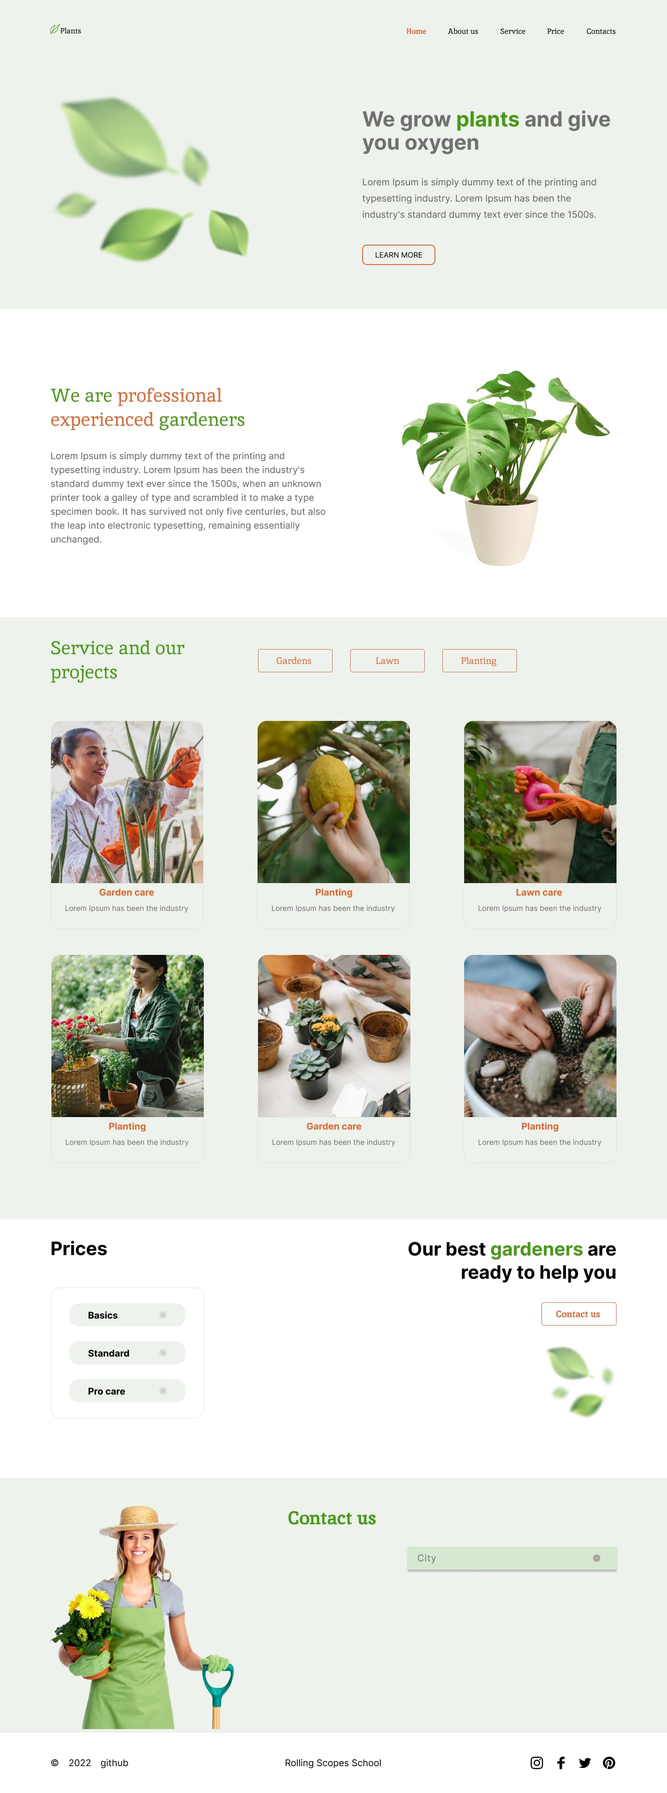
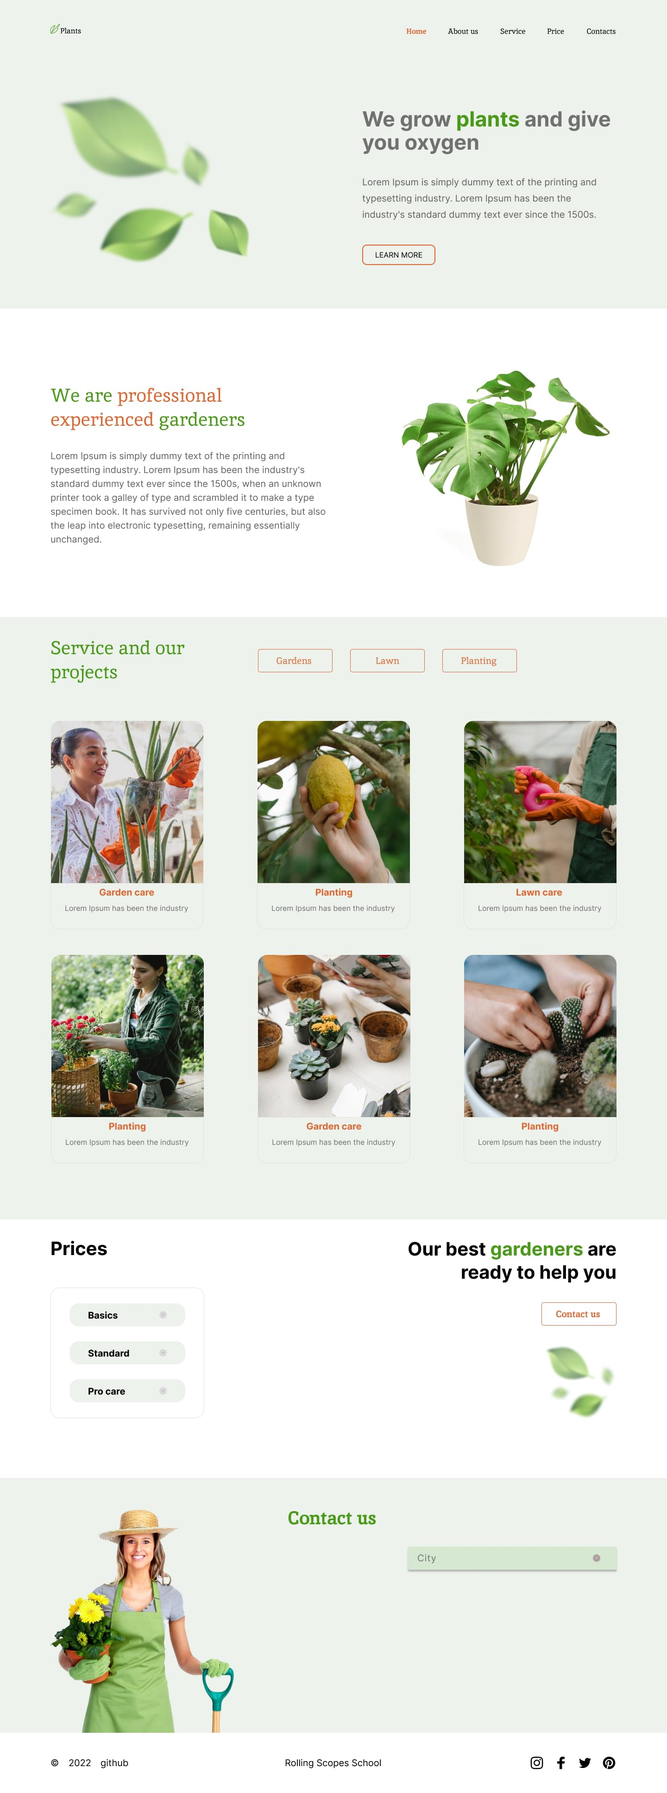
feat: add contact  accordion radio button

Changed region(s): [[0.0625, 0.8372, 0.3438, 0.9612]]

diff --git a/plants/plants/css/style.min.css b/plants/plants/css/style.min.css
@@ -1,1 +1,1 @@
-@charset "UTF-8";@import url(https://fonts.googleapis.com/css?family=Inter:300,regular,700&display=swap);@import url(https://fonts.googleapis.com/css?family=Inika:regular,700&display=swap);*{padding:0;margin:0;border:0}*,:after,:before{-webkit-box-sizing:border-box;box-sizing:border-box}body,html{height:100%;min-width:320px}body{color:#636060;line-height:1;font-family:Inter;font-size:1rem;-ms-text-size-adjust:100%;-moz-text-size-adjust:100%;-webkit-text-size-adjust:100%;-webkit-font-smoothing:antialiased;-moz-osx-font-smoothing:grayscale}button,input,textarea{font-family:Inter;font-size:inherit}button{cursor:pointer;color:inherit;background-color:inherit}a{color:inherit}a:link,a:visited{text-decoration:none}a:hover{text-decoration:none}ul li{list-style:none}img{vertical-align:top}h1,h2,h3,h4,h5,h6{font-weight:inherit;font-size:inherit}.lock body{overflow:hidden;-ms-touch-action:none;touch-action:none}.wrapper{min-height:100%;display:-webkit-box;display:-ms-flexbox;display:flex;-webkit-box-orient:vertical;-webkit-box-direction:normal;-ms-flex-direction:column;flex-direction:column;overflow:hidden;background-color:#edf2ec}.wrapper>main{-webkit-box-flex:1;-ms-flex:1 1 auto;flex:1 1 auto}.wrapper>*{min-width:0}[class*=__container]{max-width:76.375rem;-webkit-box-sizing:content-box;box-sizing:content-box;margin:0 auto;padding:0 .9375rem}/*! normalize.css v8.0.1 | MIT License | github.com/necolas/normalize.css */html{line-height:1.15;-webkit-text-size-adjust:100%}body{margin:0}main{display:block}h1{font-size:2em;margin:.67em 0}hr{-webkit-box-sizing:content-box;box-sizing:content-box;height:0;overflow:visible}pre{font-family:monospace,monospace;font-size:1em}a{background-color:transparent}abbr[title]{border-bottom:none;text-decoration:underline;-webkit-text-decoration:underline dotted;text-decoration:underline dotted}b,strong{font-weight:bolder}code,kbd,samp{font-family:monospace,monospace;font-size:1em}small{font-size:80%}sub,sup{font-size:75%;line-height:0;position:relative;vertical-align:baseline}sub{bottom:-.25em}sup{top:-.5em}img{border-style:none}button,input,optgroup,select,textarea{font-family:inherit;font-size:100%;line-height:1.15;margin:0}button,input{overflow:visible}button,select{text-transform:none}[type=button],[type=reset],[type=submit],button{-webkit-appearance:button}[type=button]::-moz-focus-inner,[type=reset]::-moz-focus-inner,[type=submit]::-moz-focus-inner,button::-moz-focus-inner{border-style:none;padding:0}[type=button]:-moz-focusring,[type=reset]:-moz-focusring,[type=submit]:-moz-focusring,button:-moz-focusring{outline:1px dotted ButtonText}fieldset{padding:.35em .75em .625em}legend{-webkit-box-sizing:border-box;box-sizing:border-box;color:inherit;display:table;max-width:100%;padding:0;white-space:normal}progress{vertical-align:baseline}textarea{overflow:auto}[type=checkbox],[type=radio]{-webkit-box-sizing:border-box;box-sizing:border-box;padding:0}[type=number]::-webkit-inner-spin-button,[type=number]::-webkit-outer-spin-button{height:auto}[type=search]{-webkit-appearance:textfield;outline-offset:-2px}[type=search]::-webkit-search-decoration{-webkit-appearance:none}::-webkit-file-upload-button{-webkit-appearance:button;font:inherit}details{display:block}summary{display:list-item}template{display:none}[hidden]{display:none}[class*=-ibg]{position:relative}[class*=-ibg] img{position:absolute;width:100%;height:100%;top:0;left:0;-o-object-fit:cover;object-fit:cover}[class*=-ibg_contain] img{-o-object-fit:contain;object-fit:contain}.button{-webkit-transition:all .3s ease;-o-transition:all .3s ease;transition:all .3s ease}.button:hover{color:#fff;background-color:#e06733}.header{font-family:Inika;font-style:normal;font-weight:400}.header__container{display:-webkit-box;display:-ms-flexbox;display:flex;-webkit-box-pack:justify;-ms-flex-pack:justify;justify-content:space-between;-webkit-box-align:end;-ms-flex-align:end;align-items:flex-end;margin-top:3.25em}.logo{display:-webkit-box;display:-ms-flexbox;display:flex;-webkit-box-align:end;-ms-flex-align:end;align-items:flex-end}.logo__img{width:1.3125em;height:1.3125em}.logo__name{margin:0;font-size:1em;line-height:.75em;color:#000;text-transform:capitalize}.nav{max-width:454px;width:100%}.nav__list{display:-webkit-box;display:-ms-flexbox;display:flex;-webkit-box-pack:justify;-ms-flex-pack:justify;justify-content:space-between;color:#010201}.nav__item{font-size:1em;line-height:.75em}.nav__link{-webkit-transition:all .3s ease;-o-transition:all .3s ease;transition:all .3s ease}.nav__link:hover{color:#e06733}.nav__link.active{font-weight:700;color:#e06733}.welcome{margin-top:8.125em;margin-bottom:5.8125em}.no-webp .welcome__container{background-image:url(../img/bg-leafs5.png)}.welcome__container{display:-webkit-box;display:-ms-flexbox;display:flex;-webkit-box-pack:end;-ms-flex-pack:end;justify-content:flex-end;background-repeat:no-repeat;background-position:4px -20px}.welcome__wrapper{max-width:34.375em;width:100%}.welcome__title{display:block;font-weight:700;font-size:45px;line-height:50px;color:#717171}.welcome__title span{color:#499a18}.welcome__text{max-width:525px;margin-top:42px;font-size:20px;line-height:35px}.welcome__button{margin-top:48px;padding:14px 27px;border:2px solid #e06733;border-radius:10px;text-transform:uppercase;line-height:12px}.about{background-color:#fff}.no-webp .about__container{background-image:url(../img/bg-houseplant.jpg)}.about__container{background-repeat:no-repeat;background-position:calc(100% - 15px) 95px}.about__title{padding-top:160px;font-family:Inika;font-style:normal;font-weight:400;font-size:40px;line-height:52px;color:#499a18;max-width:460px;width:100%}.about__title span{color:#e06733}.about__text{padding-bottom:155px;margin-top:40px;max-width:605px;width:100%;font-size:20px;line-height:30px}.service__container{margin-top:40px;margin-bottom:123px}.service__wrapper{display:-webkit-box;display:-ms-flexbox;display:flex;-webkit-box-align:center;-ms-flex-align:center;align-items:center}.service__title{margin-right:140px;font-family:Inika;font-style:normal;font-weight:400;font-size:40px;line-height:52px;max-width:310px;width:100%;color:#499a18}.service__button{max-width:161px;width:100%;padding:11px 40px;border:1px solid #e06733;border-radius:5px;font-family:Inika;font-style:normal;font-weight:400;font-size:20px;line-height:26px;color:#e06733}.service__button:not(:last-child){margin-right:38px}.service__list{margin-top:78px;display:-ms-grid;display:grid;grid-template-columns:repeat(auto-fit,330px);grid-gap:55px 116px;pointer-events:none}.service__list:hover .service__item:not(:hover){opacity:.3}.service__item{aspect-ratio:1/1;pointer-events:auto;-webkit-transition:opacity .3s;-o-transition:opacity .3s;transition:opacity .3s;border-radius:20px 20px 0 0;text-align:center}.service__item img{border-radius:20px 20px 0 0}.service__inner{border:1px solid #e3e1d5;border-radius:0 0 20px 20px}.service__name{margin-top:9px;font-weight:700;font-size:20px;line-height:20px;color:#e06733}.service__text{margin-top:16px;margin-bottom:36px;color:#717171}.prices{background-color:#fff}.prices__container{padding-top:40px;padding-bottom:128px;display:-webkit-box;display:-ms-flexbox;display:flex;-webkit-box-pack:justify;-ms-flex-pack:justify;justify-content:space-between}.prices__inner:nth-child(1){max-width:332px;width:100%}.no-webp .prices__inner:nth-child(2){background-image:url(../img/bg-leafs4.jpg)}.prices__inner:nth-child(2){display:-webkit-box;display:-ms-flexbox;display:flex;-webkit-box-orient:vertical;-webkit-box-direction:normal;-ms-flex-direction:column;flex-direction:column;-webkit-box-align:end;-ms-flex-align:end;align-items:flex-end;background-repeat:no-repeat;background-position:calc(100% + 10px) calc(100% + 15px)}.prices__title{margin-bottom:60px;font-weight:700;font-size:40px;line-height:48px;color:#000}.prices__box{max-width:332px;width:100%;padding:33px 41px;border:1px solid #e3e1d5;border-radius:20px}.prices__text{max-width:452px;width:100%;font-weight:700;font-size:40px;line-height:50px;text-align:right;color:#000}.prices__text span{color:#499a18}.prices__button{margin-top:38px;max-width:161px;width:100%;padding:11px 30px;border:1px solid #e06733;border-radius:5px;font-family:Inika;font-style:normal;font-weight:400;font-size:20px;line-height:26px;color:#e06733}.accordion__item{background:#edf2ec;border-radius:20px;font-weight:700;font-size:20px;line-height:20px;color:#000;-webkit-transition:background .3s ease;-o-transition:background .3s ease;transition:background .3s ease;overflow:hidden;outline:0}.accordion__item:not(:last-child){margin-bottom:32px}.accordion__item:hover{background:#d6e7d2}.accordion__item[open]{background:#d6e7d2}.accordion__summary{padding:15px 40px;display:-webkit-box;display:-ms-flexbox;display:flex;-webkit-box-pack:justify;-ms-flex-pack:justify;justify-content:space-between;-webkit-box-align:center;-ms-flex-align:center;align-items:center;cursor:pointer;-webkit-transform:rotate(0);-ms-transform:rotate(0);transform:rotate(0)}.accordion__summary span{height:16px}.accordion__summary span svg{fill:#d9d9d9;stroke:#717171;-webkit-transition:fill ease 1s,stroke ease 1s;-o-transition:fill ease 1s,stroke ease 1s;transition:fill ease 1s,stroke ease 1s}.accordion__summary::-webkit-details-marker,.accordion__summary::marker{display:none;content:""}.accordion details[open]>summary{border-radius:20px;background:#d6e7d2}.accordion details[open]>summary span{-webkit-transform:rotate(180deg);-ms-transform:rotate(180deg);transform:rotate(180deg);-webkit-transition:-webkit-transform ease 1s;transition:-webkit-transform ease 1s;-o-transition:transform ease 1s;transition:transform ease 1s;transition:transform ease 1s,-webkit-transform ease 1s}.accordion details[open]>summary span svg{fill:#aea1a1;stroke:#fff;-webkit-transition:fill ease 2s,stroke ease 2s;-o-transition:fill ease 2s,stroke ease 2s;transition:fill ease 2s,stroke ease 2s}.accordion details[open]>summary+.accordion__content{border-radius:20px;border-top:none}.accordion__content{padding:0 40px 12px}.accordion__text{padding-top:6px;font-weight:300;font-size:10px;line-height:10px;color:#717171;border-top:1px solid #aea1a1}.accordion__price{margin-top:6px;font-size:12px;line-height:20px;color:#000}.accordion__price span{font-weight:700;font-size:16px;line-height:20px;color:#e06733}.accordion__price span::before{content:"$";font-size:12px}.accordion__button{margin-top:15px;padding:3px 20px;background:#fff;border-radius:10px;font-size:14px;color:#717171}@-webkit-keyframes details-show{from{opacity:0;-webkit-transform:var(--details-translate,translateY(-1em));transform:var(--details-translate,translateY(-1em))}}@keyframes details-show{from{opacity:0;-webkit-transform:var(--details-translate,translateY(-1em));transform:var(--details-translate,translateY(-1em))}}details[open]>:not(summary){-webkit-animation:details-show .5s ease-in-out;animation:details-show .5s ease-in-out}.no-webp .contacts__container{background-image:url(../img/bg-contact.png)}.contacts__container{background-repeat:no-repeat;background-position:calc(0% + 10px) 100%}.contacts__title{margin-top:60px;font-family:Inika;font-style:normal;font-weight:700;font-size:40px;line-height:52px;color:#499a18;text-align:center}.contacts__wrapper{display:-webkit-box;display:-ms-flexbox;display:flex;-webkit-box-pack:end;-ms-flex-pack:end;justify-content:flex-end}.contacts__box{margin-top:37px;margin-bottom:350px;width:450px;padding:5px 20px;background:#d6e7d2;-webkit-box-shadow:0 4px 4px rgba(0,0,0,.25);box-shadow:0 4px 4px rgba(0,0,0,.25);border-radius:0;font-size:20px;line-height:40px;letter-spacing:.05em;color:#717171}.footer{font-size:20px;line-height:20px;color:#000;background-color:#fff}.footer__container{min-height:130px;display:-webkit-box;display:-ms-flexbox;display:flex;-webkit-box-pack:justify;-ms-flex-pack:justify;justify-content:space-between;-webkit-box-align:center;-ms-flex-align:center;align-items:center}.footer__inner{display:-webkit-box;display:-ms-flexbox;display:flex}.footer__info{margin-right:20px}.footer__year{margin-right:20px}.footer__github{-webkit-transition:all .3s ease;-o-transition:all .3s ease;transition:all .3s ease}.footer__github:hover{color:#e06733}.footer__rss{-webkit-transition:all .3s ease;-o-transition:all .3s ease;transition:all .3s ease}.footer__rss:hover{color:#e06733}.social{-webkit-box-align:center;-ms-flex-align:center;align-items:center}.social__item:not(:last-child){margin-right:28px}.social__link svg path{fill:#000;-webkit-transition:all .3s ease;-o-transition:all .3s ease;transition:all .3s ease}.social__link svg path:hover{fill:#e06733}.webp .welcome__container{background-image:url(../img/bg-leafs5.webp)}.webp .about__container{background-image:url(../img/bg-houseplant.webp)}.webp .prices__inner:nth-child(2){background-image:url(../img/bg-leafs4.webp)}.webp .contacts__container{background-image:url(../img/bg-contact.webp)}
+@charset "UTF-8";@import url(https://fonts.googleapis.com/css?family=Inter:300,regular,700&display=swap);@import url(https://fonts.googleapis.com/css?family=Inika:regular,700&display=swap);*{padding:0;margin:0;border:0}*,:after,:before{-webkit-box-sizing:border-box;box-sizing:border-box}body,html{height:100%;min-width:320px}body{color:#636060;line-height:1;font-family:Inter;font-size:1rem;-ms-text-size-adjust:100%;-moz-text-size-adjust:100%;-webkit-text-size-adjust:100%;-webkit-font-smoothing:antialiased;-moz-osx-font-smoothing:grayscale}button,input,textarea{font-family:Inter;font-size:inherit}button{cursor:pointer;color:inherit;background-color:inherit}a{color:inherit}a:link,a:visited{text-decoration:none}a:hover{text-decoration:none}ul li{list-style:none}img{vertical-align:top}h1,h2,h3,h4,h5,h6{font-weight:inherit;font-size:inherit}.lock body{overflow:hidden;-ms-touch-action:none;touch-action:none}.wrapper{min-height:100%;display:-webkit-box;display:-ms-flexbox;display:flex;-webkit-box-orient:vertical;-webkit-box-direction:normal;-ms-flex-direction:column;flex-direction:column;overflow:hidden;background-color:#edf2ec}.wrapper>main{-webkit-box-flex:1;-ms-flex:1 1 auto;flex:1 1 auto}.wrapper>*{min-width:0}[class*=__container]{max-width:76.375rem;-webkit-box-sizing:content-box;box-sizing:content-box;margin:0 auto;padding:0 .9375rem}/*! normalize.css v8.0.1 | MIT License | github.com/necolas/normalize.css */html{line-height:1.15;-webkit-text-size-adjust:100%}body{margin:0}main{display:block}h1{font-size:2em;margin:.67em 0}hr{-webkit-box-sizing:content-box;box-sizing:content-box;height:0;overflow:visible}pre{font-family:monospace,monospace;font-size:1em}a{background-color:transparent}abbr[title]{border-bottom:none;text-decoration:underline;-webkit-text-decoration:underline dotted;text-decoration:underline dotted}b,strong{font-weight:bolder}code,kbd,samp{font-family:monospace,monospace;font-size:1em}small{font-size:80%}sub,sup{font-size:75%;line-height:0;position:relative;vertical-align:baseline}sub{bottom:-.25em}sup{top:-.5em}img{border-style:none}button,input,optgroup,select,textarea{font-family:inherit;font-size:100%;line-height:1.15;margin:0}button,input{overflow:visible}button,select{text-transform:none}[type=button],[type=reset],[type=submit],button{-webkit-appearance:button}[type=button]::-moz-focus-inner,[type=reset]::-moz-focus-inner,[type=submit]::-moz-focus-inner,button::-moz-focus-inner{border-style:none;padding:0}[type=button]:-moz-focusring,[type=reset]:-moz-focusring,[type=submit]:-moz-focusring,button:-moz-focusring{outline:1px dotted ButtonText}fieldset{padding:.35em .75em .625em}legend{-webkit-box-sizing:border-box;box-sizing:border-box;color:inherit;display:table;max-width:100%;padding:0;white-space:normal}progress{vertical-align:baseline}textarea{overflow:auto}[type=checkbox],[type=radio]{-webkit-box-sizing:border-box;box-sizing:border-box;padding:0}[type=number]::-webkit-inner-spin-button,[type=number]::-webkit-outer-spin-button{height:auto}[type=search]{-webkit-appearance:textfield;outline-offset:-2px}[type=search]::-webkit-search-decoration{-webkit-appearance:none}::-webkit-file-upload-button{-webkit-appearance:button;font:inherit}details{display:block}summary{display:list-item}template{display:none}[hidden]{display:none}[class*=-ibg]{position:relative}[class*=-ibg] img{position:absolute;width:100%;height:100%;top:0;left:0;-o-object-fit:cover;object-fit:cover}[class*=-ibg_contain] img{-o-object-fit:contain;object-fit:contain}.button{-webkit-transition:all .3s ease;-o-transition:all .3s ease;transition:all .3s ease}.button:hover{color:#fff;background-color:#e06733}.header{font-family:Inika;font-style:normal;font-weight:400}.header__container{display:-webkit-box;display:-ms-flexbox;display:flex;-webkit-box-pack:justify;-ms-flex-pack:justify;justify-content:space-between;-webkit-box-align:end;-ms-flex-align:end;align-items:flex-end;margin-top:3.25em}.logo{display:-webkit-box;display:-ms-flexbox;display:flex;-webkit-box-align:end;-ms-flex-align:end;align-items:flex-end;padding:0 15px 0 0}.logo__img{width:1.3125em;height:1.3125em}.logo__name{margin:0;font-size:1em;line-height:.75em;color:#000;text-transform:capitalize}.nav{padding:0 0 0 15px}.nav__list{display:-webkit-box;display:-ms-flexbox;display:flex;-webkit-box-pack:justify;-ms-flex-pack:justify;justify-content:space-between;color:#010201}.nav__item{font-size:1em;line-height:.75em}.nav__item:not(:last-child){margin-right:48px}.nav__link{-webkit-transition:all .3s ease;-o-transition:all .3s ease;transition:all .3s ease}.nav__link:hover{color:#e06733}.nav__link.active{font-weight:700;color:#e06733}.welcome{margin-top:8.125em;margin-bottom:5.8125em}.no-webp .welcome__container{background-image:url(../img/bg-leafs5.png)}.welcome__container{display:-webkit-box;display:-ms-flexbox;display:flex;-webkit-box-pack:end;-ms-flex-pack:end;justify-content:flex-end;background-repeat:no-repeat;background-position:4px -20px}.welcome__wrapper{max-width:34.375em;width:100%}.welcome__title{display:block;font-weight:700;font-size:45px;line-height:50px;color:#717171}.welcome__title span{color:#499a18}.welcome__text{max-width:525px;margin-top:42px;font-size:20px;line-height:35px}.welcome__button{margin-top:48px;padding:14px 27px;border:2px solid #e06733;border-radius:10px;text-transform:uppercase;line-height:12px}.about{background-color:#fff}.no-webp .about__container{background-image:url(../img/bg-houseplant.jpg)}.about__container{background-repeat:no-repeat;background-position:calc(100% - 15px) 95px}.about__title{padding-top:160px;font-family:Inika;font-style:normal;font-weight:400;font-size:40px;line-height:52px;color:#499a18;max-width:460px;width:100%}.about__title span{color:#e06733}.about__text{padding-bottom:155px;margin-top:40px;max-width:605px;width:100%;font-size:20px;line-height:30px}.service__container{margin-top:40px;margin-bottom:123px}.service__wrapper{display:-webkit-box;display:-ms-flexbox;display:flex;-webkit-box-align:center;-ms-flex-align:center;align-items:center}.service__title{margin-right:138px;font-family:Inika;font-style:normal;font-weight:400;font-size:40px;line-height:52px;max-width:310px;width:100%;color:#499a18}.service__button{max-width:161px;width:100%;padding:11px 40px;border:1px solid #e06733;border-radius:5px;font-family:Inika;font-style:normal;font-weight:400;font-size:20px;line-height:26px;color:#e06733}.service__button:not(:last-child){margin-right:38px}.service__list{margin-top:78px;display:-ms-grid;display:grid;grid-template-columns:repeat(auto-fit,330px);grid-gap:55px 116px;pointer-events:none}.service__list:hover .service__item:not(:hover){opacity:.3}.service__item{aspect-ratio:1/1;pointer-events:auto;-webkit-transition:opacity .3s;-o-transition:opacity .3s;transition:opacity .3s;border-radius:20px 20px 0 0;text-align:center}.service__item img{border-radius:20px 20px 0 0}.service__inner{border:1px solid #e3e1d5;border-radius:0 0 20px 20px}.service__name{margin-top:9px;font-weight:700;font-size:20px;line-height:20px;color:#e06733}.service__text{margin-top:16px;margin-bottom:36px;color:#717171}.prices{background-color:#fff}.prices__container{padding-top:40px;padding-bottom:128px;display:-webkit-box;display:-ms-flexbox;display:flex;-webkit-box-pack:justify;-ms-flex-pack:justify;justify-content:space-between}.prices__inner:nth-child(1){max-width:332px;width:100%}.no-webp .prices__inner:nth-child(2){background-image:url(../img/bg-leafs4.jpg)}.prices__inner:nth-child(2){display:-webkit-box;display:-ms-flexbox;display:flex;-webkit-box-orient:vertical;-webkit-box-direction:normal;-ms-flex-direction:column;flex-direction:column;-webkit-box-align:end;-ms-flex-align:end;align-items:flex-end;background-repeat:no-repeat;background-position:calc(100% + 10px) 220px}.prices__title{margin-bottom:60px;font-weight:700;font-size:40px;line-height:48px;color:#000}.prices__box{max-width:332px;width:100%;padding:33px 41px;border:1px solid #e3e1d5;border-radius:20px}.prices__text{max-width:452px;width:100%;font-weight:700;font-size:40px;line-height:50px;text-align:right;color:#000}.prices__text span{color:#499a18}.prices__button{margin-top:38px;max-width:161px;width:100%;padding:11px 30px;border:1px solid #e06733;border-radius:5px;font-family:Inika;font-style:normal;font-weight:400;font-size:20px;line-height:26px;color:#e06733}.accordion__item{background:#edf2ec;border-radius:20px;font-weight:700;font-size:20px;line-height:20px;color:#000;-webkit-transition:background .3s ease;-o-transition:background .3s ease;transition:background .3s ease;overflow:hidden;outline:0}.accordion__item:not(:last-child){margin-bottom:32px}.accordion__item:hover{background:#d6e7d2}.accordion__item[open]{background:#d6e7d2}.accordion__summary{padding:15px 40px;display:-webkit-box;display:-ms-flexbox;display:flex;-webkit-box-pack:justify;-ms-flex-pack:justify;justify-content:space-between;-webkit-box-align:center;-ms-flex-align:center;align-items:center;cursor:pointer;-webkit-transform:rotate(0);-ms-transform:rotate(0);transform:rotate(0)}.accordion__summary span{height:16px}.accordion__summary span svg{fill:#d9d9d9;stroke:#717171;-webkit-transition:fill ease 1s,stroke ease 1s;-o-transition:fill ease 1s,stroke ease 1s;transition:fill ease 1s,stroke ease 1s}.accordion__summary::-webkit-details-marker,.accordion__summary::marker{display:none;content:""}.accordion details[open]>summary{border-radius:20px;background:#d6e7d2}.accordion details[open]>summary span{-webkit-transform:rotate(180deg);-ms-transform:rotate(180deg);transform:rotate(180deg);-webkit-transition:-webkit-transform ease 1s;transition:-webkit-transform ease 1s;-o-transition:transform ease 1s;transition:transform ease 1s;transition:transform ease 1s,-webkit-transform ease 1s}.accordion details[open]>summary span svg{fill:#aea1a1;stroke:#fff;-webkit-transition:fill ease 2s,stroke ease 2s;-o-transition:fill ease 2s,stroke ease 2s;transition:fill ease 2s,stroke ease 2s}.accordion details[open]>summary+.accordion__content{border-radius:20px;border-top:none}.accordion__content{padding:0 40px 12px}.accordion__text{padding-top:6px;font-weight:300;font-size:10px;line-height:10px;color:#717171;border-top:1px solid #aea1a1}.accordion__price{margin-top:6px;font-size:12px;line-height:20px;color:#000}.accordion__price span{font-weight:700;font-size:16px;line-height:20px;color:#e06733}.accordion__price span::before{content:"$";font-size:12px}.accordion__button{margin-top:15px;padding:3px 20px;background:#fff;border-radius:10px;font-size:14px;color:#717171}@-webkit-keyframes details-show{from{opacity:0;-webkit-transform:var(--details-translate,translateY(-1em));transform:var(--details-translate,translateY(-1em))}}@keyframes details-show{from{opacity:0;-webkit-transform:var(--details-translate,translateY(-1em));transform:var(--details-translate,translateY(-1em))}}details[open]>:not(summary){-webkit-animation:details-show .5s ease-in-out;animation:details-show .5s ease-in-out}.no-webp .contacts__container{background-image:url(../img/bg-contact.png)}.contacts__container{background-repeat:no-repeat;background-position:calc(0% + 10px) 100%}.contacts__title{margin-top:60px;font-family:Inika;font-style:normal;font-weight:700;font-size:40px;line-height:52px;color:#499a18;text-align:center}.contacts__wrapper{display:-webkit-box;display:-ms-flexbox;display:flex;-webkit-box-pack:end;-ms-flex-pack:end;justify-content:flex-end;padding-bottom:350px}.contacts__box{margin-top:37px;max-width:450px;width:100%;background:#d6e7d2;-webkit-box-shadow:0 4px 4px rgba(0,0,0,.25);box-shadow:0 4px 4px rgba(0,0,0,.25);border-radius:0;font-size:20px;line-height:20px;letter-spacing:.05em;color:#717171}.select-box{display:-webkit-box;display:-ms-flexbox;display:flex;-webkit-box-orient:vertical;-webkit-box-direction:normal;-ms-flex-direction:column;flex-direction:column;position:relative}.select-box .options-container{position:absolute;top:100%;max-height:0;width:100%;opacity:0;-webkit-transition:all .4s;-o-transition:all .4s;transition:all .4s;overflow:hidden;background:#d6e7d2;-webkit-box-shadow:0 4px 4px rgba(0,0,0,.25);box-shadow:0 4px 4px rgba(0,0,0,.25);-webkit-box-ordinal-group:2;-ms-flex-order:1;order:1}.selected{position:relative;-webkit-box-ordinal-group:1;-ms-flex-order:0;order:0;-webkit-transition:background .3s ease;-o-transition:background .3s ease;transition:background .3s ease}.selected:hover{background:#c1e698}.selected::after{content:"";background:url(../img/icons/accordion_btn.svg);background-size:contain;background-repeat:no-repeat;position:absolute;height:16px;width:16px;right:35px;top:17px;-webkit-transition:all .5s;-o-transition:all .5s;transition:all .5s}.select-box .options-container.active{max-height:240px;opacity:1}.select-box .options-container.active+.selected{background:#c1e698}.select-box .options-container.active+.selected::after{-webkit-transform:rotate(180deg);-ms-transform:rotate(180deg);transform:rotate(180deg)}.select-box .options-container::-webkit-scrollbar{width:8px}.select-box .option,.selected{padding:15px 35px;cursor:pointer;display:-webkit-box;display:-ms-flexbox;display:flex;-webkit-box-pack:justify;-ms-flex-pack:justify;justify-content:space-between;-webkit-box-align:center;-ms-flex-align:center;align-items:center;position:relative}.select-box label{width:100%;padding-bottom:5px;color:#499a18;cursor:pointer;border-bottom:1px solid #d9d9d9;-webkit-transition:all .3s ease;-o-transition:all .3s ease;transition:all .3s ease}.select-box label:hover{color:#717171;border-bottom:1px solid #717171}.select-box .option .radio{display:none}.footer{font-size:20px;line-height:20px;color:#000;background-color:#fff}.footer__container{min-height:130px;display:-webkit-box;display:-ms-flexbox;display:flex;-webkit-box-pack:justify;-ms-flex-pack:justify;justify-content:space-between;-webkit-box-align:center;-ms-flex-align:center;align-items:center}.footer__inner{display:-webkit-box;display:-ms-flexbox;display:flex}.footer__info{margin-right:20px}.footer__year{margin-right:20px}.footer__github{-webkit-transition:all .3s ease;-o-transition:all .3s ease;transition:all .3s ease}.footer__github:hover{color:#e06733}.footer__rss{-webkit-transition:all .3s ease;-o-transition:all .3s ease;transition:all .3s ease}.footer__rss:hover{color:#e06733}.social{-webkit-box-align:center;-ms-flex-align:center;align-items:center}.social__item:not(:last-child){margin-right:28px}.social__link svg path{fill:#000;-webkit-transition:all .3s ease;-o-transition:all .3s ease;transition:all .3s ease}.social__link svg path:hover{fill:#e06733}.webp .welcome__container{background-image:url(../img/bg-leafs5.webp)}.webp .about__container{background-image:url(../img/bg-houseplant.webp)}.webp .prices__inner:nth-child(2){background-image:url(../img/bg-leafs4.webp)}.webp .contacts__container{background-image:url(../img/bg-contact.webp)}

diff --git a/plants/plants/index.html b/plants/plants/index.html
@@ -5,7 +5,7 @@
 	<title>Plants | Maxim Iloi</title>
 	<meta charset="UTF-8">
 	<meta name="format-detection" content="telephone=no">
-	<link rel="stylesheet" href="css/style.min.css?_v=20221210181546">
+	<link rel="stylesheet" href="css/style.min.css?_v=20221212171930">
 	<link rel="shortcut icon" href="favicon.ico">
 	<!-- <meta name="robots" content="noindex, nofollow"> -->
 	<meta name="viewport" content="width=device-width, initial-scale=1.0">
@@ -16,7 +16,7 @@
 		<header class="header">
 			<div class="header__container">
 				<div class="header__logo logo">
-					<img src="img/logo.svg?_v=1670685346420" alt="plants logo" class="logo__img">
+					<img src="img/logo.svg?_v=1670854770363" alt="plants logo" class="logo__img">
 					<p class="logo__name">plants</p>
 				</div>
 				<nav class="header__nav nav">
@@ -68,42 +68,42 @@
 					</div>
 					<ul class="service__list">
 						<li class="service__item">
-							<picture><source srcset="img/1s.webp" type="image/webp"><img src="img/1s.jpg?_v=1670685346420" alt="Garden care"></picture>
+							<picture><source srcset="img/1s.webp" type="image/webp"><img src="img/1s.jpg?_v=1670854770363" alt="Garden care"></picture>
 							<div class="service__inner">
 								<h3 class="service__name">Garden care</h3>
 								<p class="service__text">Lorem Ipsum has been the industry</p>
 							</div>
 						</li>
 						<li class="service__item">
-							<picture><source srcset="img/2s.webp" type="image/webp"><img src="img/2s.jpg?_v=1670685346420" alt="Planting"></picture>
+							<picture><source srcset="img/2s.webp" type="image/webp"><img src="img/2s.jpg?_v=1670854770363" alt="Planting"></picture>
 							<div class="service__inner">
 								<h3 class="service__name">Planting</h3>
 								<p class="service__text">Lorem Ipsum has been the industry</p>
 							</div>
 						</li>
 						<li class="service__item">
-							<picture><source srcset="img/3s.webp" type="image/webp"><img src="img/3s.jpg?_v=1670685346420" alt="Lawn care"></picture>
+							<picture><source srcset="img/3s.webp" type="image/webp"><img src="img/3s.jpg?_v=1670854770363" alt="Lawn care"></picture>
 							<div class="service__inner">
 								<h3 class="service__name">Lawn care</h3>
 								<p class="service__text">Lorem Ipsum has been the industry</p>
 							</div>
 						</li>
 						<li class="service__item">
-							<picture><source srcset="img/4s.webp" type="image/webp"><img src="img/4s.jpg?_v=1670685346420" alt="Planting"></picture>
+							<picture><source srcset="img/4s.webp" type="image/webp"><img src="img/4s.jpg?_v=1670854770363" alt="Planting"></picture>
 							<div class="service__inner">
 								<h3 class="service__name">Planting</h3>
 								<p class="service__text">Lorem Ipsum has been the industry</p>
 							</div>
 						</li>
 						<li class="service__item">
-							<picture><source srcset="img/5s.webp" type="image/webp"><img src="img/5s.jpg?_v=1670685346420" alt="Garden care"></picture>
+							<picture><source srcset="img/5s.webp" type="image/webp"><img src="img/5s.jpg?_v=1670854770363" alt="Garden care"></picture>
 							<div class="service__inner">
 								<h3 class="service__name">Garden care</h3>
 								<p class="service__text">Lorem Ipsum has been the industry</p>
 							</div>
 						</li>
 						<li class="service__item">
-							<picture><source srcset="img/6s.webp" type="image/webp"><img src="img/6s.jpg?_v=1670685346420" alt="Planting"></picture>
+							<picture><source srcset="img/6s.webp" type="image/webp"><img src="img/6s.jpg?_v=1670854770363" alt="Planting"></picture>
 							<div class="service__inner">
 								<h3 class="service__name">Planting</h3>
 								<p class="service__text">Lorem Ipsum has been the industry</p>
@@ -119,7 +119,7 @@
 						<div class="prices__box accordion">
 							<details class="accordion__item">
 								<summary class="accordion__summary">
-									<p>Basics</p>
+									Basics
 									<span>
 										<svg width="16" height="17" viewBox="0 0 16 17" fill="none" xmlns="http://www.w3.org/2000/svg">
 											<circle cx="8" cy="8.00928" r="8" stroke="none" />
@@ -137,7 +137,7 @@
 							</details>
 							<details class="accordion__item">
 								<summary class="accordion__summary">
-									<p>Standard</p>
+									Standard
 									<span>
 										<svg width="16" height="17" viewBox="0 0 16 17" fill="none" xmlns="http://www.w3.org/2000/svg">
 											<circle cx="8" cy="8.00928" r="8" stroke="none" />
@@ -155,7 +155,7 @@
 							</details>
 							<details class="accordion__item">
 								<summary class="accordion__summary">
-									<p>Pro care</p>
+									Pro care
 									<span>
 										<svg width="16" height="17" viewBox="0 0 16 17" fill="none" xmlns="http://www.w3.org/2000/svg">
 											<circle cx="8" cy="8.00928" r="8" stroke="none" />
@@ -183,8 +183,31 @@
 				<div class="contacts__container">
 					<h2 class="contacts__title">Contact us</h2>
 					<div class="contacts__wrapper">
-						<div class="contacts__box">
-							City
+						<div class="contacts__box select-box">
+							<div class="options-container">
+
+								<div class="option">
+									<input type="radio" class="radio" id="Canandaigua" name="contact">
+									<label for="Canandaigua">Canandaigua, NY</label>
+								</div>
+
+								<div class="option">
+									<input type="radio" class="radio" id="NewYorkCity" name="contact">
+									<label for="NewYorkCity">New York City</label>
+								</div>
+
+								<div class="option">
+									<input type="radio" class="radio" id="Yonkers" name="contact">
+									<label for="Yonkers">Yonkers, NY</label>
+								</div>
+
+								<div class="option">
+									<input type="radio" class="radio" id="Sherrill" name="contact">
+									<label for="Sherrill">Sherrill, NY</label>
+								</div>
+							</div>
+
+							<div class="selected">City</div>
 						</div>
 					</div>
 				</div>
@@ -234,7 +257,7 @@
 			</div>
 		</footer>
 	</div>
-	<script src="js/app.min.js?_v=20221210181546"></script>
+	<script src="js/app.min.js?_v=20221212171930"></script>
 </body>
 
 </html>

diff --git a/plants/plants/css/style.css b/plants/plants/css/style.css
@@ -457,6 +457,7 @@ template {
 .logo {
   display: flex;
   align-items: flex-end;
+  padding: 0 15px 0 0;
 }
 .logo__img {
   width: 1.3125em;
@@ -471,8 +472,7 @@ template {
 }
 
 .nav {
-  max-width: 454px;
-  width: 100%;
+  padding: 0 0 0 15px;
 }
 .nav__list {
   display: flex;
@@ -482,6 +482,9 @@ template {
 .nav__item {
   font-size: 1em;
   line-height: 0.75em;
+}
+.nav__item:not(:last-child) {
+  margin-right: 48px;
 }
 .nav__link {
   transition: all 0.3s ease;
@@ -620,7 +623,7 @@ template {
   align-items: center;
 }
 .service__title {
-  margin-right: 140px;
+  margin-right: 138px;
   font-family: "Inika";
   font-style: normal;
   font-weight: 400;
@@ -702,7 +705,7 @@ template {
   align-items: flex-end;
   background-image: url("../img/bg-leafs4.jpg");
   background-repeat: no-repeat;
-  background-position: calc(100% + 10px) calc(100% + 15px);
+  background-position: calc(100% + 10px) 220px;
 }
 .prices__title {
   margin-bottom: 60px;
@@ -866,19 +869,104 @@ details[open] > *:not(summary) {
 .contacts__wrapper {
   display: flex;
   justify-content: flex-end;
+  padding-bottom: 350px;
 }
 .contacts__box {
   margin-top: 37px;
-  margin-bottom: 350px;
-  width: 450px;
-  padding: 5px 20px;
+  max-width: 450px;
+  width: 100%;
   background: #d6e7d2;
   box-shadow: 0px 4px 4px rgba(0, 0, 0, 0.25);
   border-radius: 0px;
   font-size: 20px;
-  line-height: 40px;
+  line-height: 20px;
   letter-spacing: 0.05em;
   color: #717171;
+}
+
+.select-box {
+  display: flex;
+  flex-direction: column;
+  position: relative;
+}
+
+.select-box .options-container {
+  position: absolute;
+  top: 100%;
+  max-height: 0;
+  width: 100%;
+  opacity: 0;
+  transition: all 0.4s;
+  overflow: hidden;
+  background: #d6e7d2;
+  box-shadow: 0px 4px 4px rgba(0, 0, 0, 0.25);
+  order: 1;
+}
+
+.selected {
+  position: relative;
+  order: 0;
+  transition: background 0.3s ease;
+}
+.selected:hover {
+  background: #c1e698;
+}
+
+.selected::after {
+  content: "";
+  background: url(../img/icons/accordion_btn.svg);
+  background-size: contain;
+  background-repeat: no-repeat;
+  position: absolute;
+  height: 16px;
+  width: 16px;
+  right: 35px;
+  top: 17px;
+  transition: all 0.5s;
+}
+
+.select-box .options-container.active {
+  max-height: 240px;
+  opacity: 1;
+}
+
+.select-box .options-container.active + .selected {
+  background: #c1e698;
+}
+
+.select-box .options-container.active + .selected::after {
+  transform: rotate(180deg);
+}
+
+.select-box .options-container::-webkit-scrollbar {
+  width: 8px;
+}
+
+.select-box .option,
+.selected {
+  padding: 15px 35px;
+  cursor: pointer;
+  display: flex;
+  justify-content: space-between;
+  align-items: center;
+  position: relative;
+}
+
+.select-box label {
+  width: 100%;
+  padding-bottom: 5px;
+  color: #499a18;
+  cursor: pointer;
+  border-bottom: 1px solid #d9d9d9;
+  transition: all 0.3s ease;
+}
+.select-box label:hover {
+  color: #717171;
+  border-bottom: 1px solid #717171;
+}
+
+.select-box .option .radio {
+  display: none;
 }
 
 .footer {

diff --git a/plants/plants/js/app.min.js b/plants/plants/js/app.min.js
@@ -1,1 +1,1 @@
[2 lines of base64/hex data omitted]
